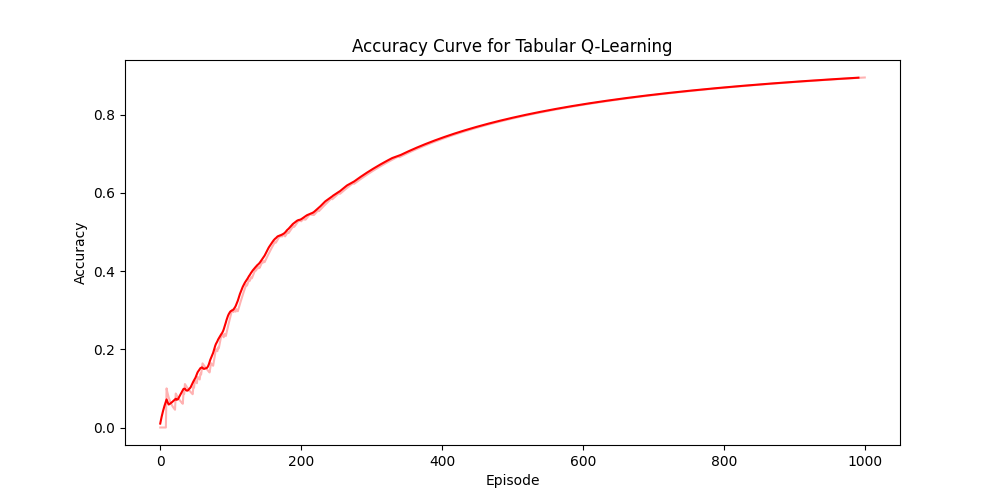
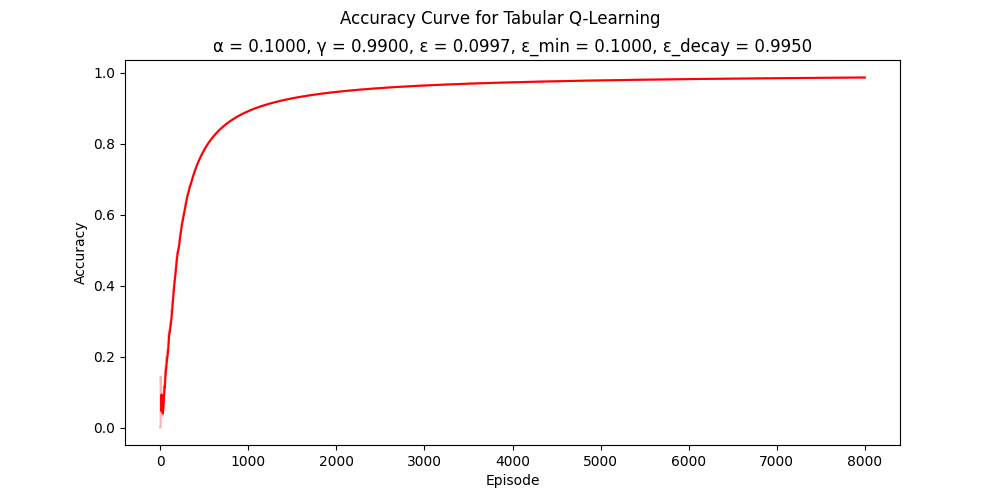
updated plotting functions and loss reviewed

diff --git a/tabular.py b/tabular.py
@@ -22,6 +22,9 @@ class QTable:
     def get_item(self, state, action):
         return self.table[state][action]
     
+    def get_alpha(self):
+        return self.alpha
+    
 class Agent:
     def __init__(self, env, alpha, gamma, epsilon, epsilon_min, epsilon_decay):
         self.env = env
@@ -55,7 +58,7 @@ class Agent:
             done = False
 
             temp_reward = 0
-            temp_loss = 0
+            loss = 0
             steps = 0
             success = 0
 
@@ -71,7 +74,7 @@ class Agent:
                     next_state = next_state[0]
                 
                 temp_reward += reward
-                temp_loss += self.update_table(state, action, reward, next_state)
+                loss = self.update_table(state, action, reward, next_state)
                 state = next_state
                 steps += 1
 
@@ -79,7 +82,7 @@ class Agent:
                 success = 1
 
             self.rewards.append(temp_reward)
-            self.losses.append(float(temp_loss / steps))
+            self.losses.append(np.mean(loss))            
             self.successes.append(success)
 
             if(self.epsilon > self.epsilon_min):
@@ -91,21 +94,30 @@ class Agent:
         window = 10
         plt.figure(figsize = (10, 5))
         plt.plot(self.rewards, alpha = 0.3, color = 'green', label = "Raw Reward")
-        plt.plot(np.convolve(self.rewards, np.ones(window), 'valid') / window, color = 'green', label = "Smoothed Reward")
+        plt.plot(range(window - 1, len(self.rewards)), np.convolve(self.rewards, np.ones(window) / window, mode = 'valid'), label = "Smoothed Rewards", color = 'green')
+        
         plt.xlabel("Episode")
         plt.ylabel("Reward")
-        plt.title("Reward Curve for Tabular Q-Learning")
+        plt.suptitle("Reward Curve for Tabular Q-Learning")
+        plt.title(f"α = {'%.4f'%self.q_table.get_alpha()}, γ = {'%.4f'%(self.gamma)}, ε = {'%.4f'%self.epsilon}, ε_min = {'%.4f'%self.epsilon_min}, ε_decay = {'%.4f'%self.epsilon_decay}")
+        
         plt.savefig("qlt_rewards.png")
+        plt.clf()
 
     def plot_loss(self):
         window = 10
         plt.figure(figsize = (10, 5))
-        plt.plot(self.losses, alpha = 0.3, color = 'blue', label = "Raw Losses")
-        plt.plot(np.convolve(self.losses, np.ones(window), 'valid') / window, label = "Smoothed Accuracy")
+        
+        plt.plot(self.losses, alpha = 0.3, color = 'blue', label = "Raw Loss")
+        plt.plot(range(window - 1, len(self.losses)), np.convolve(self.losses, np.ones(window) / window, mode = 'valid'), label = "Smoothed Loss", color = 'blue')
+        
         plt.xlabel("Episode")
         plt.ylabel("Loss")
-        plt.title("Loss Curve for Tabular Q-Learning")
+        plt.suptitle("Loss Curve for Tabular Q-Learning")
+        plt.title(f"α = {'%.4f'%self.q_table.get_alpha()}, γ = {'%.4f'%(self.gamma)}, ε = {'%.4f'%self.epsilon}, ε_min = {'%.4f'%self.epsilon_min}, ε_decay = {'%.4f'%self.epsilon_decay}")
+        
         plt.savefig("qlt_loss.png")
+        plt.clf()
 
     def plot_accuracy(self):
         window = 10
@@ -118,17 +130,21 @@ class Agent:
 
         plt.figure(figsize = (10, 5))
         plt.plot(accuracy, alpha = 0.3, color = 'red', label = "Raw Accuracy")
-        plt.plot(np.convolve(accuracy, np.ones(window), 'valid') / window, color = 'red', label = "Smoothed Accuracy")
+        plt.plot(range(window - 1, len(accuracy)), np.convolve(accuracy, np.ones(window) / window, mode = 'valid'), label = "Smoothed Accuracy", color = 'red')
+
         plt.xlabel("Episode")
         plt.ylabel("Accuracy")
-        plt.title("Accuracy Curve for Tabular Q-Learning")
+        plt.suptitle("Accuracy Curve for Tabular Q-Learning")
+        plt.title(f"α = {'%.4f'%self.q_table.get_alpha()}, γ = {'%.4f'%(self.gamma)}, ε = {'%.4f'%self.epsilon}, ε_min = {'%.4f'%self.epsilon_min}, ε_decay = {'%.4f'%self.epsilon_decay}")
+
         plt.savefig("qlt_accuracy.png")
+        plt.clf()
 
     
 
 env = gym.make('Taxi-v3')
 agent = Agent(env, 0.1, 0.99, 1.0, 0.1, 0.995)
-episodes = 1000
+episodes = 8000
 agent.train(episodes)
 agent.plot_rewards()
 agent.plot_loss()
